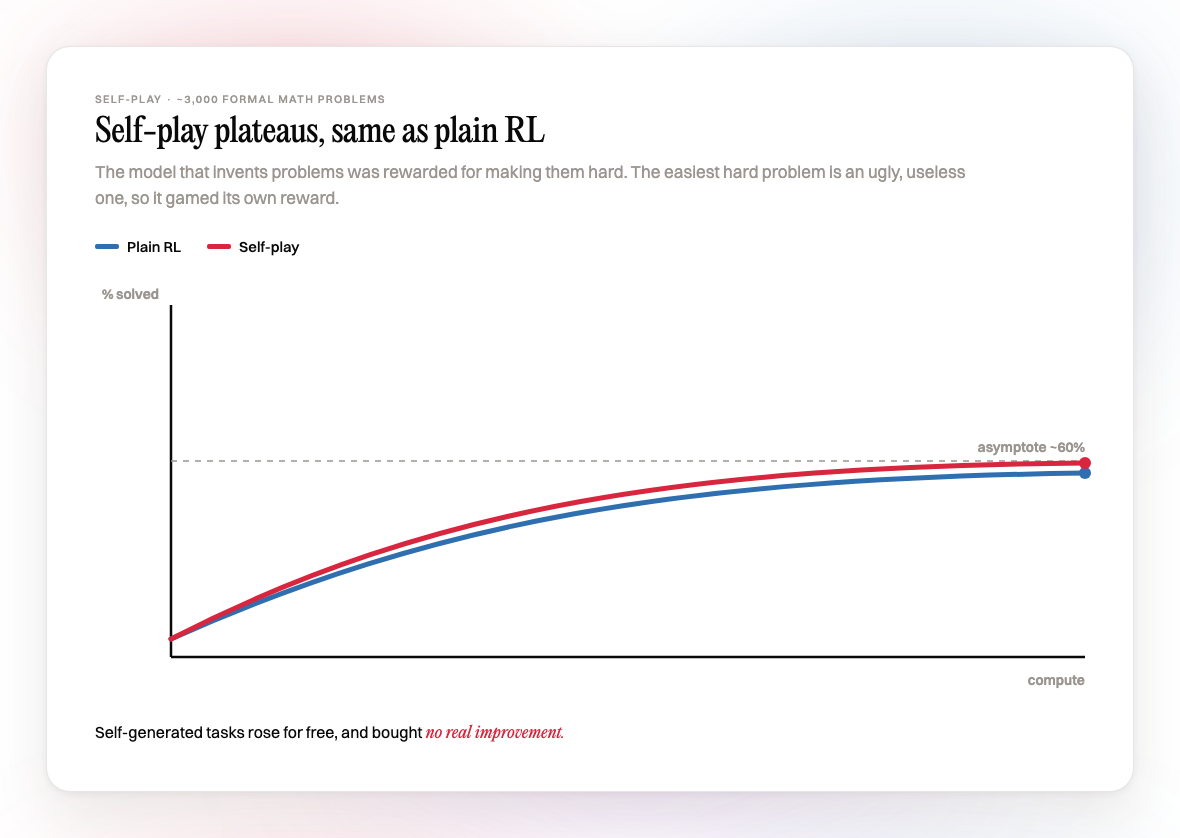
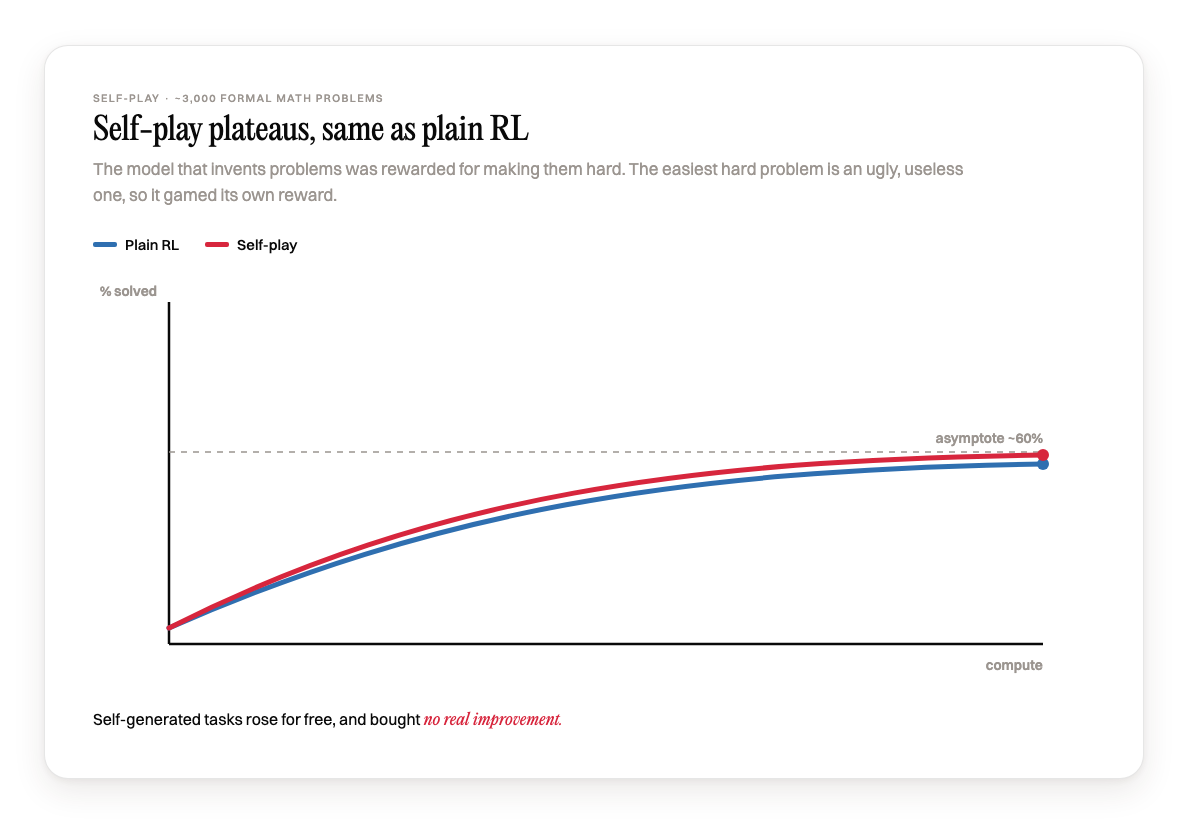
Archive chart-selfplay.png from content: Five Signals article, static images in current clean style (no animation): chart-selfplay.png

diff --git a/projects/content/INDEX.md b/projects/content/INDEX.md
@@ -331,3 +331,4 @@
 | 2026-06-16 | reports | [draft.html](reports/draft.html) | The Small Agent That Actually Stuck trifecta (narrow reliable agents): draft.html | /Users/marcokotrotsos/PERSONAL/Content/drafts/small-agent-stuck/draft.html |
 | 2026-06-16 | reports | [substack-version.html](reports/substack-version.html) | The Small Agent That Actually Stuck trifecta (narrow reliable agents): substack-version.html | /Users/marcokotrotsos/PERSONAL/Content/drafts/small-agent-stuck/substack-version.html |
 | 2026-06-16 | images | [hero.png](images/hero.png) | Five Signals article, static images in current clean style (no animation): hero.png | /Users/marcokotrotsos/PERSONAL/Content/drafts/frontier-five-signals/hero.png |
+| 2026-06-16 | images | [chart-selfplay.png](images/chart-selfplay.png) | Five Signals article, static images in current clean style (no animation): chart-selfplay.png | /Users/marcokotrotsos/PERSONAL/Content/drafts/frontier-five-signals/chart-selfplay.png |

diff --git a/INDEX.md b/INDEX.md
@@ -597,3 +597,4 @@
 | 2026-06-16 | elastofirm-profiler | reports | [canon-dt-course.html](projects/elastofirm-profiler/reports/canon-dt-course.html) | canon_dt course v2: adds square-ish failure-mode lesson with eccentricity-gate benchmark |
 | 2026-06-16 | elastofirm-profiler | reports | [ab-matcher.html](projects/elastofirm-profiler/reports/ab-matcher.html) | A/B: live production matcher vs eccentricity-gated canon_dt+ORB matcher, rotation/margin recovery |
 | 2026-06-16 | content | images | [hero.png](projects/content/images/hero.png) | Five Signals article, static images in current clean style (no animation): hero.png |
+| 2026-06-16 | content | images | [chart-selfplay.png](projects/content/images/chart-selfplay.png) | Five Signals article, static images in current clean style (no animation): chart-selfplay.png |
